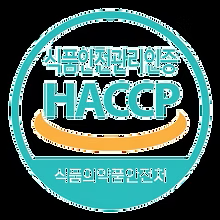
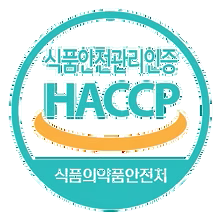
Give the HACCP and GMP marks a clear background
The marks sat in white boxes, and the HACCP PNG added yesterday carried a
black background from a bad conversion.

- cut the white background out of the GMP mark
- point HACCP back at the AVIF, which already has a clear background,
  and replace the black-backed PNG with a proper cutout
- drop the white card and border the marks were drawn in

diff --git a/index.html b/index.html
@@ -50,7 +50,7 @@
     <link rel="preconnect" href="https://fonts.googleapis.com">
     <link rel="preconnect" href="https://fonts.gstatic.com" crossorigin>
     <link rel="stylesheet" href="https://fonts.googleapis.com/css2?family=Geist:wght@300..700&display=swap">
-    <link rel="stylesheet" href="css/style.css?v=20260918-1510">
+    <link rel="stylesheet" href="css/style.css?v=20260918-1600">
 </head>
 <body data-root="./">
 
@@ -453,7 +453,7 @@
                     <span class="facility-k">MANUFACTURING</span>
                     <h3 class="facility-t">엄격한 <b>HACCP·GMP</b> 기준의 생산시설</h3>
                     <p class="facility-d">확깨유는 엄격한 HACCP·GMP 기준을 갖춘 생산시설에서 만들어져, 뛰어난 기능과 안정성을 확보한 제품입니다.</p>
-                    <div class="facility-marks"><img src="images/mark-haccp.png" alt="HACCP 인증 마크" loading="lazy"><img src="images/mark-gmp.png" alt="GMP 인증 마크" loading="lazy"></div>
+                    <div class="facility-marks"><img src="images/mark-haccp.avif" alt="HACCP 인증 마크" loading="lazy"><img src="images/mark-gmp.png" alt="GMP 인증 마크" loading="lazy"></div>
                     <p class="facility-src">생산시설 · 유디바이오</p>
                 </div>
             </section>
@@ -669,6 +669,6 @@
     </div>
 </section>
 
-<script src="js/main.js?v=20260918-1510"></script>
+<script src="js/main.js?v=20260918-1600"></script>
 </body>
 </html>

diff --git a/css/style.css b/css/style.css
@@ -1133,8 +1133,8 @@ body.doc{overflow:auto;background:#fff}
 }
 
 /* ===== Certification marks under the manufacturing note ===== */
-.facility-marks{display:flex;flex-wrap:wrap;gap:10px;margin-top:18px}
-.facility-marks img{display:block;height:clamp(96px,9vw,128px);width:auto;padding:8px;background:#fff;border:1px solid rgba(17,17,19,0.12)}
+.facility-marks{display:flex;flex-wrap:wrap;align-items:center;gap:clamp(16px,2vw,26px);margin-top:20px}
+.facility-marks img{display:block;height:clamp(96px,9vw,128px);width:auto}
 
 /* ===== Pages within a page: a tab bar under the cover, sticking below the page bar ===== */
 .panel-inner:has(> .subtabs){padding-top:clamp(20px,2.4vw,32px)}

diff --git a/privacy.html b/privacy.html
@@ -13,7 +13,7 @@
     <link rel="preconnect" href="https://fonts.googleapis.com">
     <link rel="preconnect" href="https://fonts.gstatic.com" crossorigin>
     <link rel="stylesheet" href="https://fonts.googleapis.com/css2?family=Geist:wght@300..700&display=swap">
-    <link rel="stylesheet" href="css/style.css?v=20260918-1510">
+    <link rel="stylesheet" href="css/style.css?v=20260918-1600">
 </head>
 <body class="doc">
 

diff --git a/terms.html b/terms.html
@@ -13,7 +13,7 @@
     <link rel="preconnect" href="https://fonts.googleapis.com">
     <link rel="preconnect" href="https://fonts.gstatic.com" crossorigin>
     <link rel="stylesheet" href="https://fonts.googleapis.com/css2?family=Geist:wght@300..700&display=swap">
-    <link rel="stylesheet" href="css/style.css?v=20260918-1510">
+    <link rel="stylesheet" href="css/style.css?v=20260918-1600">
 </head>
 <body class="doc">
 
